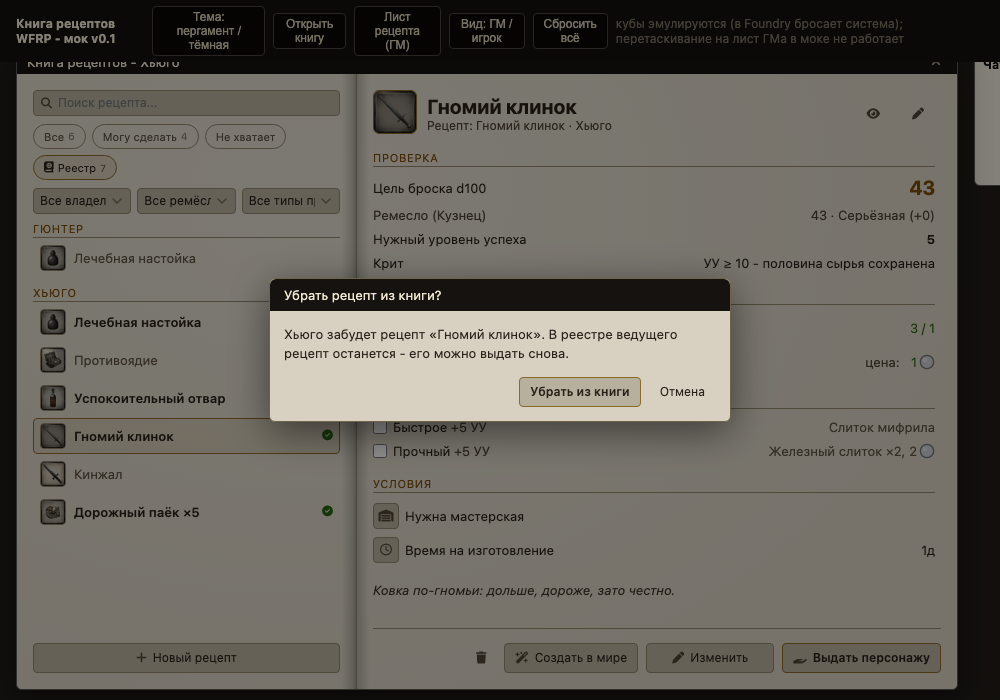
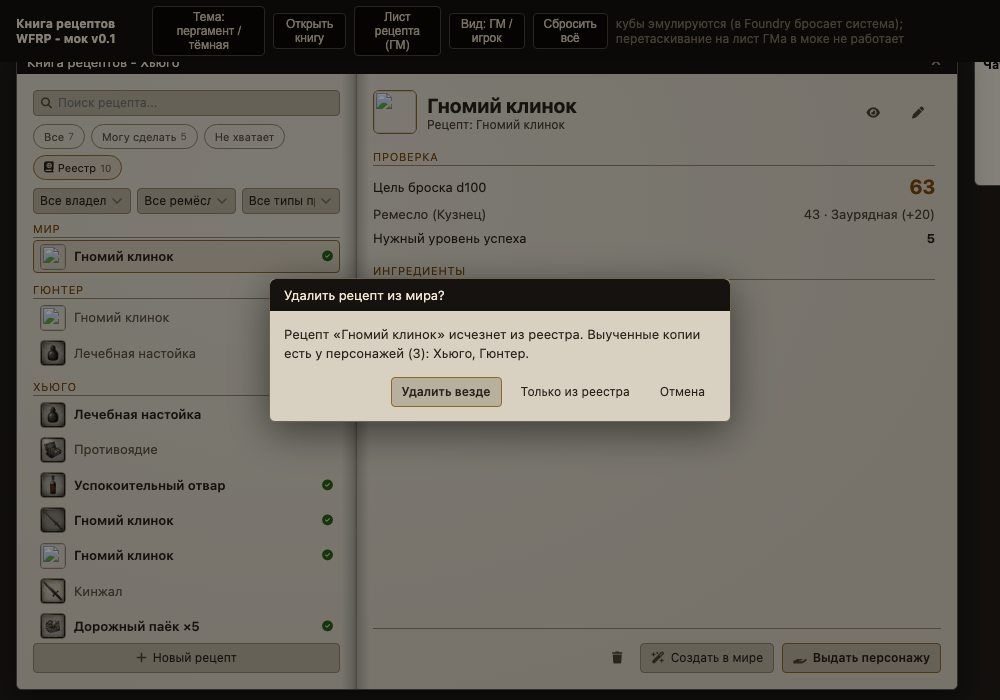
v0.1.26: «Удалить везде» для мировых рецептов (с перечнем владельцев), корзинка и правка - в шапке без дублей в футере

diff --git a/scripts/recipe-book.js b/scripts/recipe-book.js
@@ -592,6 +592,18 @@ export async function itemIndex() {
  * Подтверждение необратимого действия: заголовок-вопрос, факт последствий, именованные кнопки.
  * Кнопка действия названа глаголом (не «Да»), отмена - всегда рядом и безопасна.
  */
+/** Диалог с произвольным набором именованных действий; возвращает ключ выбранного */
+export async function askAction({ title, body, options }) {
+  return foundry.applications.api.DialogV2.wait({
+    window: { title },
+    content: `<p>${body}</p>`,
+    buttons: [
+      ...options.map((o, i) => ({ action: o.action, label: o.label, default: i === 0, class: o.danger ? "rb-danger" : "" })),
+      { action: "cancel", label: L("WFRPRB.Sheet.Cancel") }
+    ]
+  }).catch(() => "cancel");
+}
+
 export async function confirmAction({ title, body, confirmLabel }) {
   const choice = await foundry.applications.api.DialogV2.wait({
     window: { title },
@@ -803,6 +815,20 @@ export class RecipeBookApp extends HandlebarsApplicationMixin(ApplicationV2) {
   /** Рецепты мира (вкладка «Реестр», только ГМ) */
   worldRecipes() {
     return (game.items ?? []).filter((i) => i.type === RECIPE_TYPE && !RecipeBookApp.isDraft(i));
+  }
+
+  /** Копии мирового рецепта у персонажей: по флагу источника, иначе по имени (старые выдачи) */
+  copiesOf(recipe) {
+    const out = [];
+    for (const a of game.actors?.contents ?? []) {
+      if (a.type !== "character") continue;
+      for (const it of a.items) {
+        if (it.type !== RECIPE_TYPE) continue;
+        const src = it.getFlag(MODULE_ID, "source");
+        if (src === recipe.uuid || (!src && it.name === recipe.name)) out.push({ actor: a, item: it });
+      }
+    }
+    return out;
   }
 
   /** Рецепт по выбору: с открытого актёра, из мира или с другого персонажа (реестр ГМа) */
@@ -1224,7 +1250,7 @@ export class RecipeBookApp extends HandlebarsApplicationMixin(ApplicationV2) {
     const obj = recipe.toObject();
     delete obj._id;
     // Игрок увидит пометку «новый», пока не откроет рецепт
-    obj.flags = { ...(obj.flags ?? {}), [MODULE_ID]: { ...(obj.flags?.[MODULE_ID] ?? {}), isNew: true, fresh: false } };
+    obj.flags = { ...(obj.flags ?? {}), [MODULE_ID]: { ...(obj.flags?.[MODULE_ID] ?? {}), isNew: true, fresh: false, source: recipe.uuid } };
     const [made] = await actor.createEmbeddedDocuments("Item", [obj]);
     ui.notifications.info(F("WFRPRB.World.Given", { name: recipe.name, actor: actor.name }));
     if (actor.id === this.actor.id) {
@@ -1262,10 +1288,44 @@ export class RecipeBookApp extends HandlebarsApplicationMixin(ApplicationV2) {
     const world = this.selected?.kind === "wrecipe";
     const name = esc(r.system.result?.name || r.name);
     const owner = esc(this.selectedOwner()?.name ?? this.actor?.name ?? "");
+
+    if (world) {
+      const copies = this.copiesOf(r);
+      const choice = copies.length
+        ? await askAction({
+            title: L("WFRPRB.Delete.WorldTitle"),
+            body: F("WFRPRB.Delete.WorldHintCopies", {
+              name, count: copies.length,
+              actors: esc([...new Set(copies.map((c) => c.actor.name))].join(", "))
+            }),
+            options: [
+              { action: "all", label: L("WFRPRB.Delete.Everywhere"), danger: true },
+              { action: "world", label: L("WFRPRB.Delete.WorldOnly") }
+            ]
+          })
+        : (await confirmAction({
+            title: L("WFRPRB.Delete.WorldTitle"),
+            body: F("WFRPRB.Delete.WorldHint", { name }),
+            confirmLabel: L("WFRPRB.Delete.WorldButton")
+          })) ? "world" : "cancel";
+      if (choice === "cancel") return;
+      if (choice === "all") {
+        // Сначала копии у персонажей, затем сам рецепт мира
+        const byActor = new Map();
+        for (const c of copies) byActor.set(c.actor, [...(byActor.get(c.actor) ?? []), c.item.id]);
+        for (const [a, ids] of byActor) await a.deleteEmbeddedDocuments("Item", ids);
+        ui.notifications.info(F("WFRPRB.Delete.DoneAll", { name, count: copies.length }));
+      }
+      await r.delete();
+      this.selected = null;
+      this.render();
+      return;
+    }
+
     const yes = await confirmAction({
-      title: L(world ? "WFRPRB.Delete.WorldTitle" : "WFRPRB.Delete.ActorTitle"),
-      body: F(world ? "WFRPRB.Delete.WorldHint" : "WFRPRB.Delete.ActorHint", { name, actor: owner }),
-      confirmLabel: L(world ? "WFRPRB.Delete.WorldButton" : "WFRPRB.Delete.ActorButton")
+      title: L("WFRPRB.Delete.ActorTitle"),
+      body: F("WFRPRB.Delete.ActorHint", { name, actor: owner }),
+      confirmLabel: L("WFRPRB.Delete.ActorButton")
     });
     if (!yes) return;
     await r.delete();

diff --git a/scripts/recipe-sheet.js b/scripts/recipe-sheet.js
@@ -114,10 +114,11 @@ export class RecipeSheet extends RBSheetMixin(ItemSheetV2) {
         if (choice === "give") {
           const obj = this.document.toObject();
           delete obj._id;
-          if (obj.flags?.["wfrp4e-recipe-book"]) {
-            delete obj.flags["wfrp4e-recipe-book"].fresh;
-            delete obj.flags["wfrp4e-recipe-book"].forActor;
-          }
+          obj.flags ??= {};
+          obj.flags["wfrp4e-recipe-book"] = {
+            ...(obj.flags["wfrp4e-recipe-book"] ?? {}),
+            fresh: false, forActor: undefined, isNew: true, source: this.document.uuid
+          };
           await actor.createEmbeddedDocuments("Item", [obj]);
           ui.notifications.info(F("WFRPRB.World.Given", { name: this.document.name, actor: actor.name }));
         }

diff --git a/tools/mock-runtime.js b/tools/mock-runtime.js
@@ -193,7 +193,7 @@
         <header>${cfg.window?.title ?? ""}</header>
         <section>${cfg.content ?? ""}</section>
         <footer>${buttons.map((b, i) =>
-          `<button type="button" class="rb-btn ${b.default ? "rb-btn--primary" : "rb-btn--quiet"}" data-i="${i}">${b.label}</button>`).join("")}</footer>
+          `<button type="button" class="rb-btn ${b.default ? "rb-btn--primary" : "rb-btn--quiet"}" data-i="${i}" data-act="${b.action}">${b.label}</button>`).join("")}</footer>
       </div>`;
     document.body.append(back);
     back.querySelectorAll("button").forEach((btn) => btn.addEventListener("click", () => {
